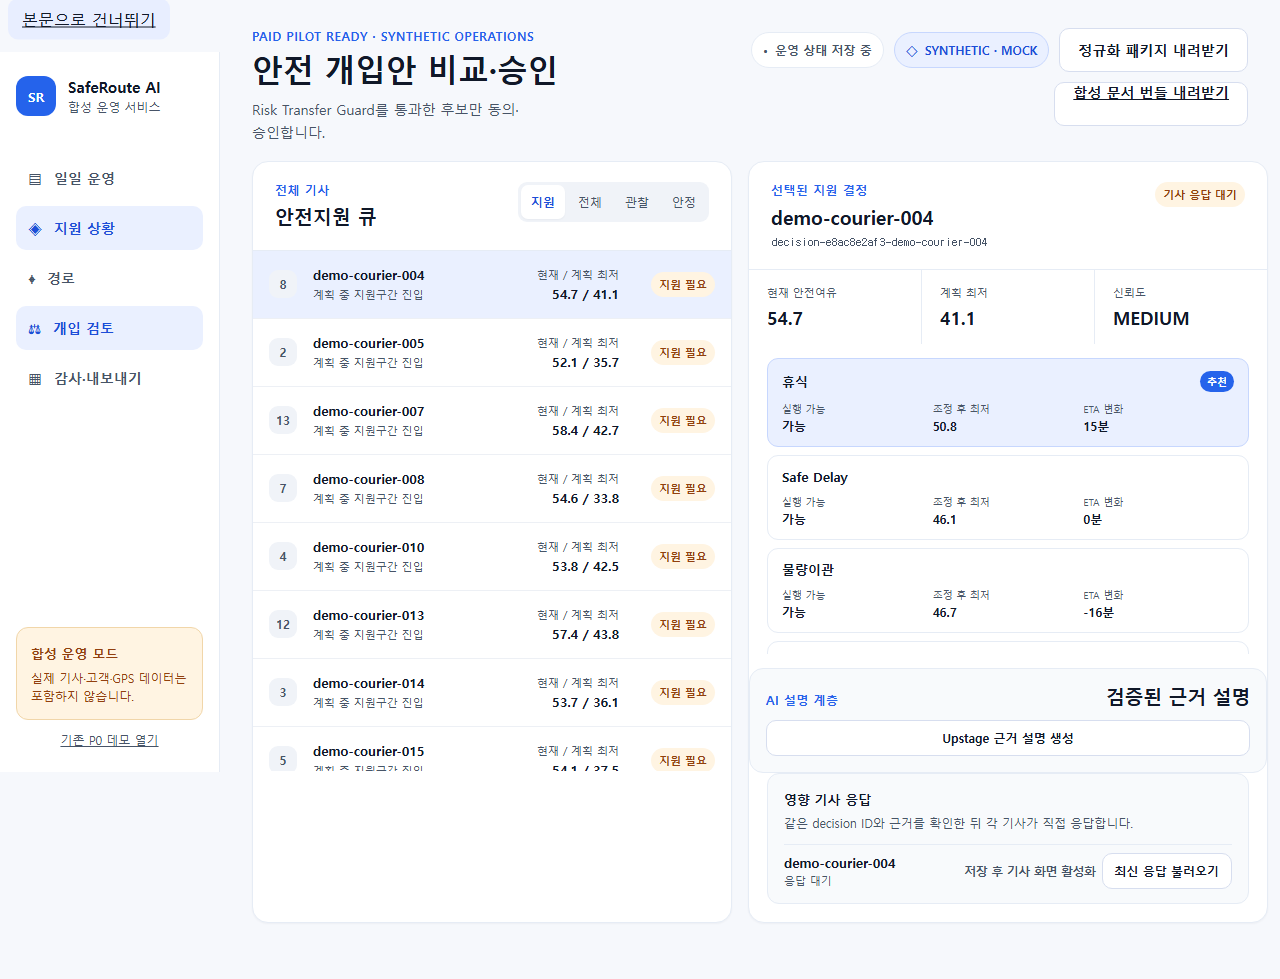
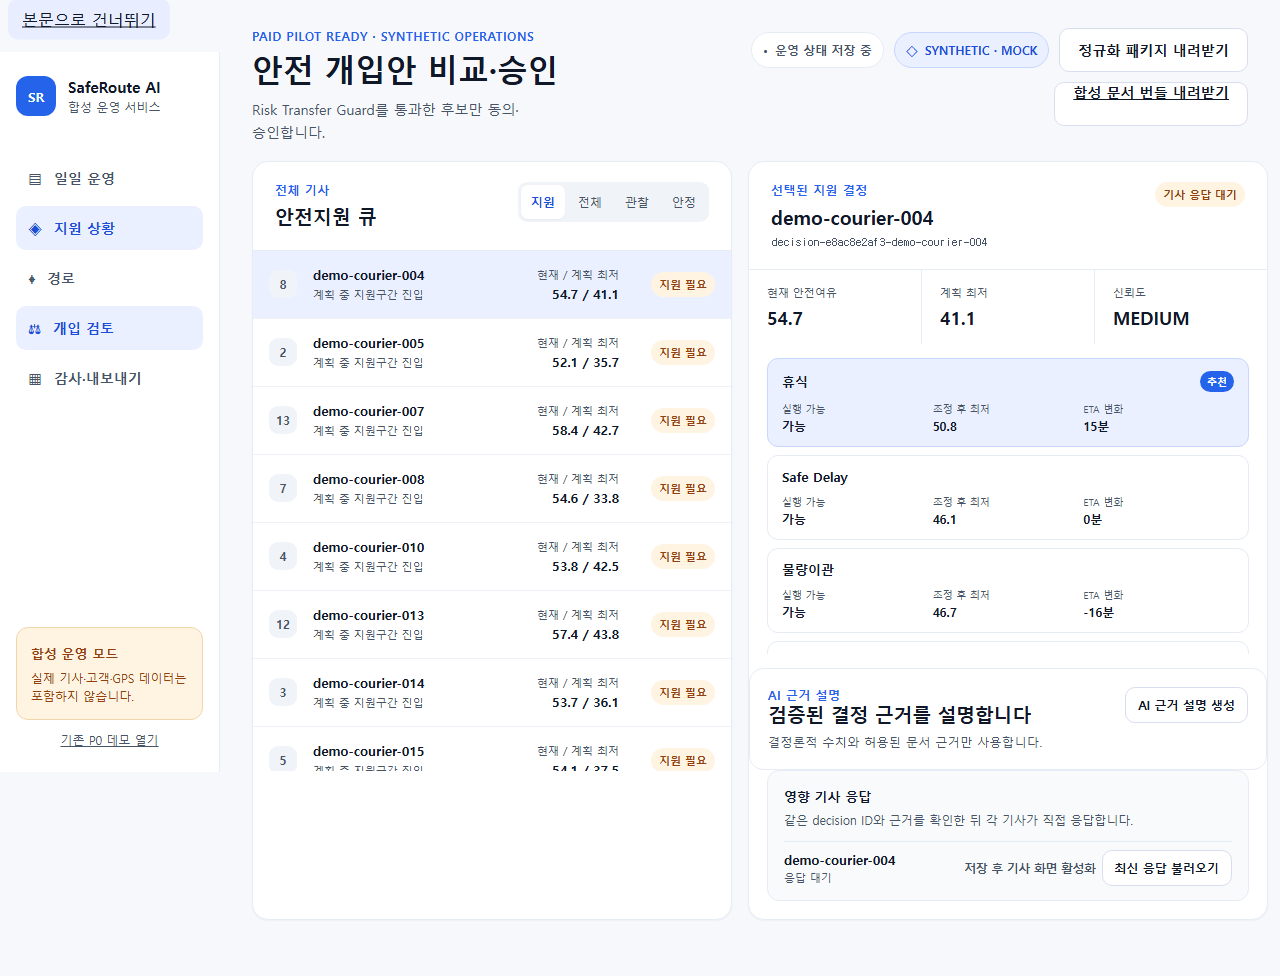
fix: refine operations service actions

diff --git a/src/ui/OperationsService.tsx b/src/ui/OperationsService.tsx
@@ -877,11 +877,11 @@ export function OperationsService() {
               className="visually-hidden"
               type="file"
               accept="application/json,.json"
-              aria-label="합성 운영 문서 번들 또는 정규화 패키지 선택"
+              aria-label="합성 운영 문서 또는 정규화 JSON 첨부"
               onChange={(event) => void onPackageFile(event.currentTarget.files?.[0])}
             />
             <label className="button button-neutral" htmlFor="operations-package-file">
-              문서 번들·JSON 선택
+              운영 문서 첨부
             </label>
             <button
               type="button"
@@ -1190,24 +1190,31 @@ export function OperationsService() {
                       className="operations-ai-explanation"
                       aria-labelledby="operations-ai-heading"
                     >
-                      <div>
-                        <p className="operations-section-label">AI 설명 계층</p>
-                        <h3 id="operations-ai-heading">검증된 근거 설명</h3>
+                      <div className="operations-ai-header">
+                        <div className="operations-ai-heading">
+                          <p className="operations-section-label">AI 근거 설명</p>
+                          <h3 id="operations-ai-heading">
+                            검증된 결정 근거를 설명합니다
+                          </h3>
+                          <p>
+                            결정론적 수치와 허용된 문서 근거만 사용합니다.
+                          </p>
+                        </div>
+                        {!selectedExplanation && (
+                          <button
+                            type="button"
+                            className="button button-neutral button-small"
+                            disabled={explanationLoading}
+                            onClick={() => void explainDecision()}
+                          >
+                            {explanationLoading
+                              ? "AI 설명 확인 중…"
+                              : "AI 근거 설명 생성"}
+                          </button>
+                        )}
                       </div>
-                      {!selectedExplanation && (
-                        <button
-                          type="button"
-                          className="button button-neutral button-small"
-                          disabled={explanationLoading}
-                          onClick={() => void explainDecision()}
-                        >
-                          {explanationLoading
-                            ? "Upstage 확인 중…"
-                            : "Upstage 근거 설명 생성"}
-                        </button>
-                      )}
                       {selectedExplanation && (
-                        <>
+                        <div className="operations-ai-result">
                           <span
                             className={`operations-ai-status ${
                               selectedExplanation.status === "FALLBACK"
@@ -1226,7 +1233,7 @@ export function OperationsService() {
                             AI는 수치·추천·실행 가능 여부를 계산하거나 변경하지
                             않으며, 허용된 결정 사실만 설명합니다.
                           </small>
-                        </>
+                        </div>
                       )}
                     </section>
                     <div className="operations-next-step">
@@ -1257,7 +1264,7 @@ export function OperationsService() {
                                     </small>
                                   </span>
                                   {requirement.status === "PENDING" && (
-                                    <span>
+                                    <span className="operations-consent-actions">
                                       {persistenceState.status === "SAVED" ? (
                                         <a
                                           className="button button-primary button-small"

diff --git a/src/ui/operations.css b/src/ui/operations.css
@@ -277,24 +277,51 @@
 
 .operations-ai-explanation {
   display: grid;
-  gap: 10px;
+  gap: 14px;
   margin-top: 14px;
-  padding: 16px;
+  padding: 18px;
   border: 1px solid var(--color-border);
   border-radius: 14px;
-  background: #f8fafc;
+  background: #fff;
 }
 
-.operations-ai-explanation > div:first-child {
+.operations-ai-header {
   display: flex;
-  align-items: baseline;
+  align-items: flex-start;
   justify-content: space-between;
-  gap: 12px;
+  gap: 18px;
 }
 
-.operations-ai-explanation h3,
-.operations-ai-explanation p {
+.operations-ai-heading {
+  min-width: 0;
+}
+
+.operations-ai-heading h3,
+.operations-ai-heading p,
+.operations-ai-result p {
   margin: 0;
+}
+
+.operations-ai-heading > p:last-child {
+  margin-top: 5px;
+  color: var(--color-text-muted);
+  font-size: 0.78rem;
+  line-height: 1.5;
+}
+
+.operations-ai-header .button {
+  display: inline-flex;
+  flex: 0 0 auto;
+  align-items: center;
+  justify-content: center;
+  white-space: nowrap;
+}
+
+.operations-ai-result {
+  display: grid;
+  gap: 9px;
+  padding-top: 13px;
+  border-top: 1px solid var(--color-border);
 }
 
 .operations-ai-explanation small {
@@ -353,9 +380,17 @@
 
 .operations-import-actions {
   display: flex;
+  align-items: center;
   flex-wrap: wrap;
-  justify-content: flex-end;
+  justify-content: center;
   gap: 10px;
+}
+
+.operations-import-actions .button {
+  display: inline-flex;
+  align-items: center;
+  justify-content: center;
+  white-space: nowrap;
 }
 
 .operations-notice {
@@ -943,8 +978,20 @@
 .operations-consent-list > div > span:last-child,
 .operations-admin-actions {
   display: flex;
+  align-items: center;
   flex-wrap: wrap;
   gap: 6px;
+}
+
+.operations-consent-actions {
+  justify-content: flex-end;
+}
+
+.operations-consent-actions .button {
+  display: inline-flex;
+  align-items: center;
+  justify-content: center;
+  white-space: nowrap;
 }
 
 .operations-rider-link-pending {
@@ -1423,8 +1470,21 @@
   }
 
   .operations-header-actions,
-  .operations-import-actions {
+  .operations-admin-actions {
     justify-content: flex-start;
+  }
+
+  .operations-import-actions {
+    justify-content: center;
+  }
+
+  .operations-ai-header {
+    align-items: stretch;
+    flex-direction: column;
+  }
+
+  .operations-ai-header .button {
+    align-self: center;
   }
 
   .operations-summary {

diff --git a/e2e/operations-service.spec.ts b/e2e/operations-service.spec.ts
@@ -20,6 +20,13 @@ test.describe("synthetic operations service", () => {
     ).toHaveCount(5);
     await expect(page.getByText("활성 기사 25명")).toBeVisible();
     await expect(page.getByText("입력 합성 문서 100개")).toBeVisible();
+    const documentAttach = page.getByText("운영 문서 첨부", { exact: true });
+    await expect(documentAttach).toBeVisible();
+    expect(
+      await documentAttach.evaluate(
+        (element) => window.getComputedStyle(element).whiteSpace,
+      ),
+    ).toBe("nowrap");
 
     const documentBundleDownload = page.waitForEvent("download");
     await page
@@ -45,7 +52,7 @@ test.describe("synthetic operations service", () => {
     expect(documentBundle.documents).toHaveLength(100);
     expect(documentBundle.extractedRecords).toHaveLength(25);
     await page
-      .getByLabel("합성 운영 문서 번들 또는 정규화 패키지 선택")
+      .getByLabel("합성 운영 문서 또는 정규화 JSON 첨부")
       .setInputFiles(downloadedBundlePath!);
     await expect(
       page.getByText("추출 상태 SAFEROUTE DETERMINISTIC · strict 추출 통과"),
@@ -110,9 +117,15 @@ test.describe("synthetic operations service", () => {
         }),
       });
     });
-    await page
-      .getByRole("button", { name: "Upstage 근거 설명 생성" })
-      .click();
+    const explanationButton = page.getByRole("button", {
+      name: "AI 근거 설명 생성",
+    });
+    expect(
+      await explanationButton.evaluate(
+        (element) => window.getComputedStyle(element).whiteSpace,
+      ),
+    ).toBe("nowrap");
+    await explanationButton.click();
     await expect(
       page.getByText("Fallback 템플릿 · RATE_LIMITED", { exact: true }),
     ).toBeVisible();
@@ -126,6 +139,11 @@ test.describe("synthetic operations service", () => {
       { timeout: 15_000 },
     );
     const riderLinks = page.getByRole("link", { name: "기사 화면 열기" });
+    expect(
+      await riderLinks.first().evaluate(
+        (element) => window.getComputedStyle(element).whiteSpace,
+      ),
+    ).toBe("nowrap");
     let responseCount = 0;
     while ((await riderLinks.count()) > 0 && responseCount < 3) {
       const popupPromise = page.waitForEvent("popup");

diff --git a/e2e/operations-accessibility.spec.ts b/e2e/operations-accessibility.spec.ts
@@ -92,7 +92,7 @@ for (const viewport of [
     ).toHaveAttribute("aria-selected", "true");
     await expect(page.getByText("기사 응답 대기", { exact: true })).toBeVisible();
     await expect(
-      page.getByRole("button", { name: "Upstage 근거 설명 생성" }),
+      page.getByRole("button", { name: "AI 근거 설명 생성" }),
     ).toBeVisible();
     await page.screenshot({
       path: `artifacts/evals/screenshots/operations-service-${viewport.label}.png`,

diff --git a/docs/decisions.md b/docs/decisions.md
@@ -819,6 +819,15 @@
 - 기각한 대안: 합성 위치를 실시간으로 표시, 브라우저 Geolocation을 즉시 수집, 관리자에게 실제 정밀 궤적을 노출, 권역 집계만 유지하고 기사 진행률을 지도와 분리.
 - 영향 파일: `src/ui/OperationsMap.tsx`, `src/ui/OperationsService.tsx`, `src/ui/operations.css`, 운영 서비스 Playwright, `docs/product-spec.md`, `docs/privacy-and-ai-policy.md`
 
+### ADR-085 — 운영 서비스의 주요 행동은 사용자 역할 중심 명칭을 사용한다
+
+- 날짜: 2026-07-28
+- 상태: Approved
+- 결정: 일일 운영의 JSON 파일 입력은 `운영 문서 첨부`, 개입 검토의 설명 생성은 `AI 근거 설명 생성`으로 표시한다. Upstage 같은 공급자 이름과 Live·Mock·Fallback 상태는 결과 상태와 감사 근거에서 유지하되 주요 행동 이름으로 사용하지 않는다. 파일 첨부, AI 설명 생성과 기사 화면 열기 행동은 버튼 안에서 줄바꿈하지 않고 가운데 정렬한다.
+- 이유: 내부 문서 형식과 공급자 이름을 행동 이름에 직접 노출하면 사용자가 무엇을 해야 하는지보다 구현 세부사항이 먼저 보이고, 좁은 패널에서 짧은 행동 문구도 두 줄로 깨져 정보계층이 흐려진다.
+- 기각한 대안: `문서 번들·JSON 선택`과 `Upstage 근거 설명 생성` 유지, 버튼 폭만 확대, 작은 글자로 축소, 강제 두 줄 배치.
+- 영향 파일: `src/ui/OperationsService.tsx`, `src/ui/operations.css`, 운영 서비스 Playwright, `docs/design-system.md`
+
 ## 4. 심사기준 연결
 
 | 심사기준 | 핵심 결정 | 향후 실행 증거 |
